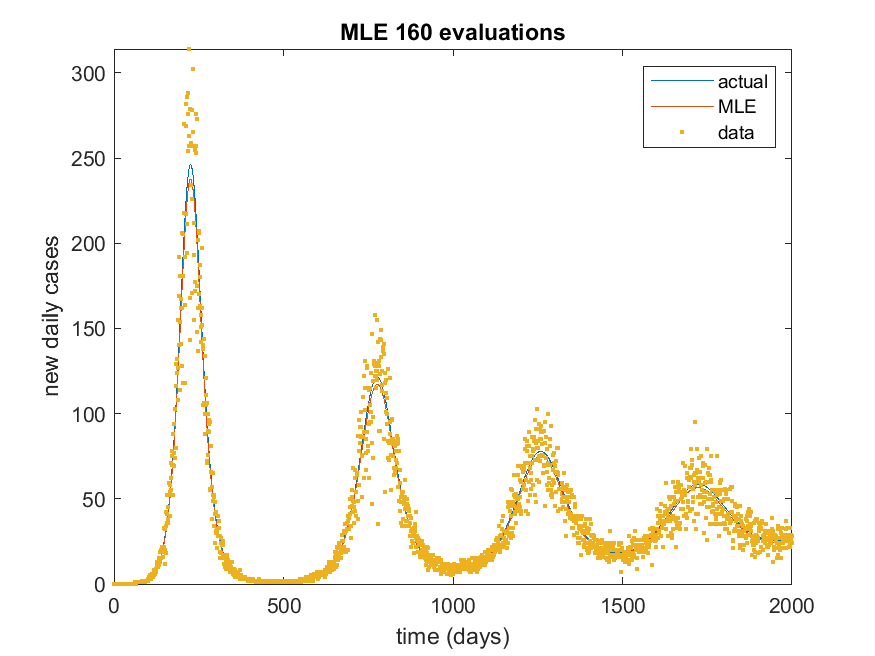
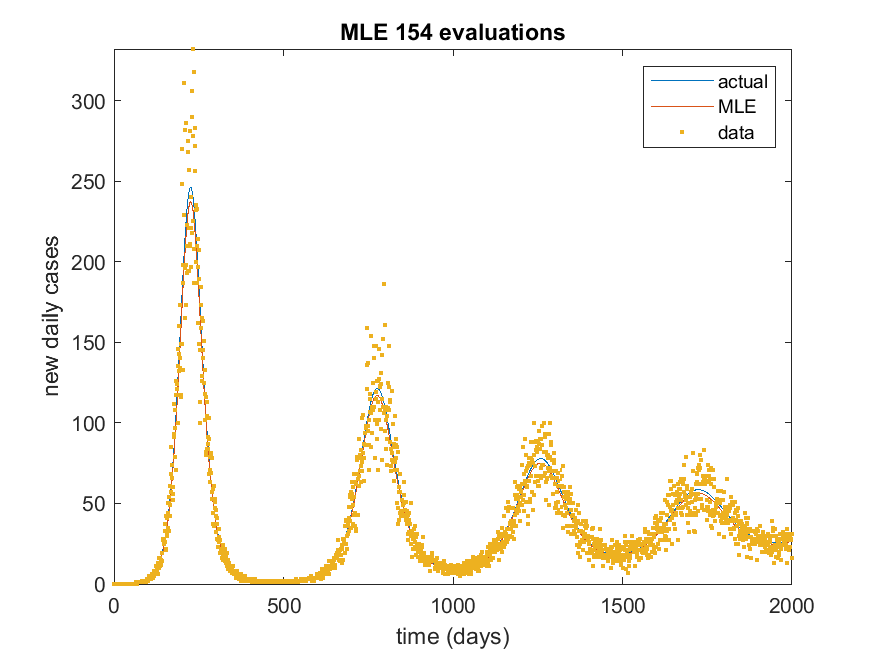
Added Poisson noise option
Changed LV noise model to Poisson (increasing mean pop size so as to keep a reasonable signal to noise ratio)

diff --git a/functions/LLfunc.m b/functions/LLfunc.m
@@ -2,19 +2,28 @@ function LL = LLfunc(yMean, yData, SD, noiseModel)
 
 small = 1e-10;
 
+% If yMean and yData are n x m matrices (e.g. n x 2 matrix of time eries of 2 observed variables) this reshapes them both to be column vectors
+yMean = yMean(:);
+yData = yData(:);
+
 
 nPoints = numel(yData);
 
 if noiseModel == "norm_SD_const"
     % Log likelihood (PDF of a normal with mean yMean and variance SD^2)
-    LL = -nPoints*(log(2*pi)/2 + log(SD))  -  0.5/SD^2 * sum( (yData(:)-yMean(:)).^2 );
+    LL = -nPoints*(log(2*pi)/2 + log(SD))  -  0.5/SD^2 * sum( (yData-yMean).^2 );
 
 elseif noiseModel == "norm_SD_propMean"
     yMean_pos = max(small, yMean);   % To avoid numerical problems, replace non-positive values with a small positive number
     
     % Log likelihood (PDF of a normal with mean yMean_pos and variance SD^2*yMean_pos^2)
-    LL = -nPoints*(log(2*pi)/2 + log(SD))  -  sum( log(yMean_pos(:)) + 0.5/SD^2 * (yData(:)-yMean_pos(:)).^2./(yMean_pos(:).^2)  );
+    LL = -nPoints*(log(2*pi)/2 + log(SD))  -  sum( log(yMean_pos) + 0.5/SD^2 * (yData-yMean_pos).^2./(yMean_pos.^2)  );
+elseif noiseModel == "poisson"
+    yMean_pos = max(small, yMean);   % To avoid numerical problems, replace non-positive values with a small positive number
+
+    Ci = [0, cumsum( log(1:max(yData)) )]';  % vector of cumulative sum of log(integers) for efficient calculation of log(k!) in LL
+    LL = sum( yData.*log(yMean_pos) - yMean_pos - Ci(1+yData) ); 
 else
-    error("LLfunc: noiseModel type needs to be one of: 'const', 'propMean'");
+   error("noiseModel type needs to be one of: 'const', 'propMean', 'poisson'");
 end
 

diff --git a/main.m b/main.m
@@ -66,19 +66,19 @@ for iModel = 1:nModels
         transformSolution = @transformSolutionMultiply;
         
         % Initial guess for fitted parameters [a, b, pObs, obsSD]
-        parLbl = ["r", "a", "pObs", "obsSD"];
-        Theta0 = [0.95; 1.45; 0.11; 0.004];
+        parLbl = ["r", "a", "pObs"];%, "obsSD"];
+        Theta0 = [0.95; 1.45; 0.11];%; 4];
         
         xLbl = 'time';
         yLbl = 'observed population count';
         
         % Define lower and upper bounds on fitted parameters
-        lb = [0; 0; 0; 0];
-        ub = [10; 10; 1; 0.02];
+        lb = [0; 0; 0];%; 0];
+        ub = [10; 10; 1];%; 20];
         
         % Profile intervals for each parameter
-        ThetaLower = [0.8; 1.3; 0.08; 0.001];
-        ThetaUpper = [1.2; 1.7; 0.12; 0.004];
+        ThetaLower = [0.8; 1.3; 0.08];%; 1];
+        ThetaUpper = [1.2; 1.7; 0.12];%; 4];
 
     end
     
@@ -97,7 +97,7 @@ for iModel = 1:nModels
     if modelLbl(iModel) == "SEIR"
         ThetaTrue = [par.R0; par.tR; par.pObs; par.obsSD];
     elseif modelLbl(iModel) == "LV"
-        ThetaTrue = [par.r; par.a; par.pObs; par.obsSD];
+        ThetaTrue = [par.r; par.a; par.pObs];%; par.obsSD];
     end
     
     

diff --git a/functions/getParLV.m b/functions/getParLV.m
@@ -3,19 +3,19 @@ function par = getParLV();
 par.tMax = 100;        % simulation time 
 
 % Initial conditions
-par.y0 = [0.1; 0.1];
+par.y0 = [100; 100];
 
 % Model parameters
 par.r = 1;
-par.K = 1;
+par.K = 1000;
 par.a = 1.5;
-par.b = 0.2;
+par.b = 200;
 par.mu = 1;
 
 % Observation parameters
 par.pObs = 0.1;        % proportion of population observed
 
 % Noise model and parameters
-par.noiseModel = "norm_SD_const";        % noise model is normal with SD proportional to mean
+par.noiseModel = "poisson";        % noise model is normal with SD proportional to mean
 par.obsIntFlag = 0;     % set flag to indicate observations are not rounded to integer values
-par.obsSD = 0.002;        % SD of noise on observed values
+par.obsSD = 2;        % SD of noise on observed values

diff --git a/functions/genObs.m b/functions/genObs.m
@@ -8,8 +8,10 @@ elseif par.noiseModel == "norm_SD_propMean"
     % Alternative could be, e.g. NegBin noise or Poisson distributed noise with
     % multiplicative Gaussian mean
     obs = max(0, eObs.*(1+par.obsSD*randn(size(eObs)) ));
+elseif par.noiseModel == "poisson"
+   obs = poissrnd(eObs);
 else
-   error("LLfunc: noiseModel type needs to be one of: 'const', 'propMean'");
+   error("noiseModel type needs to be one of: 'const', 'propMean', 'poisson'");
 end
 
 if par.obsIntFlag

diff --git a/functions/calcLogLikImproved.m b/functions/calcLogLikImproved.m
@@ -16,6 +16,7 @@ sol = solveModel(par);
 % Note this optimisation stop does not require the forward model to be re-run, it just evaluates the likelihood at scaled_yMean = pObs*yMean
 objFn = @(Phi)(-LLfunc( transformSolution(Phi, sol), obs, par.obsSD, par.noiseModel));
 [PhiOpt, f, exitFlag] = fmincon(objFn, Phi0, [], [], [], [], lb, ub, [], options);           
+
 assert(exitFlag > 0)
 
 % f is negative log likelihood so return -f

diff --git a/functions/getTrialParImprovedLV.m b/functions/getTrialParImprovedLV.m
@@ -5,7 +5,7 @@ function trialPar = getTrialParImprovedLV(Theta, par)
 trialPar = par;
 trialPar.r  = Theta(1);
 trialPar.a = Theta(2);
-trialPar.obsSD = Theta(3);
+%trialPar.obsSD = Theta(3);
 
 % Set pObs = 1 for all forward model runs under improved profiling method
 trialPar.pObs = 1;

diff --git a/functions/getTrialParLV.m b/functions/getTrialParLV.m
@@ -6,4 +6,4 @@ trialPar = par;
 trialPar.r  = Theta(1);
 trialPar.a = Theta(2);
 trialPar.pObs = Theta(3);
-trialPar.obsSD = Theta(4);
+%trialPar.obsSD = Theta(4);
